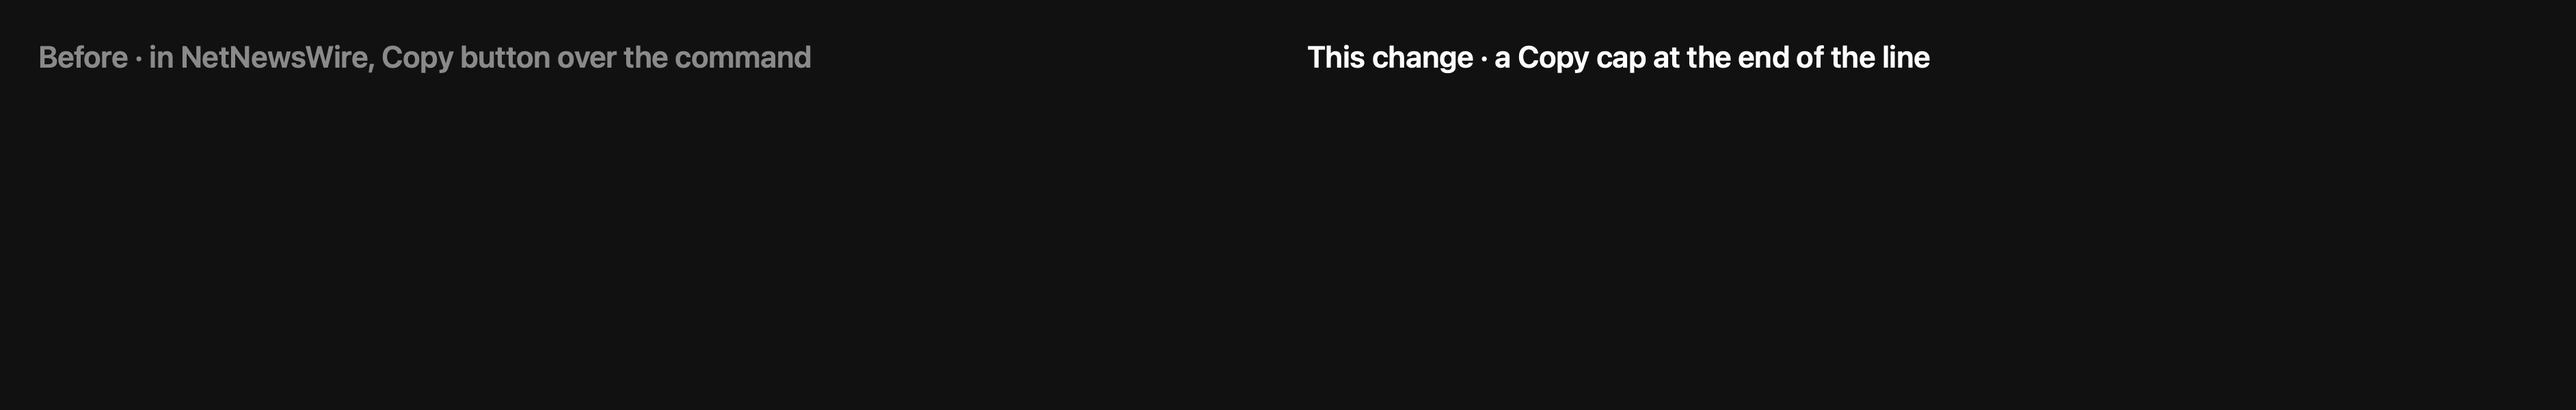
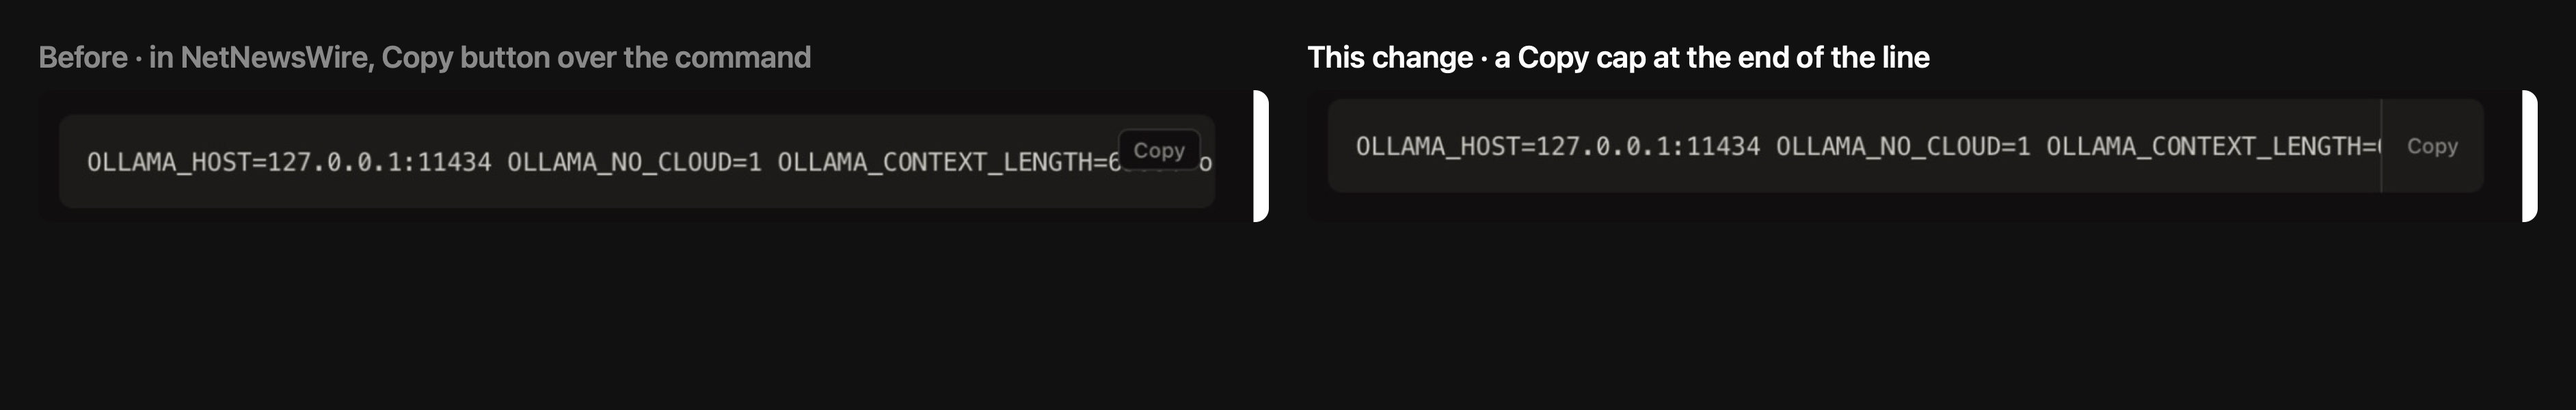
Repair blank in-app before/after images; add iPhone-size set
The in-app images were composed from file:// pictures the compose page
could not load, so each held only its labels. Recomposed from the same
captures with the pictures embedded. Adds dark 390pt renders through
NetNewsWire's page for each fix, and a --scheme flag plus X, podcast and
cover cases to scripts/before-after.mjs.

Verified: opened every image; artifact page renders all 15 at 1200 and 390 wide

Changed region(s): [[0.0311, 0.24, 0.4968, 0.54], [0.5279, 0.24, 0.9936, 0.54]]

diff --git a/assets/releases/unreleased/iphone/README.md b/assets/releases/unreleased/iphone/README.md
@@ -1,0 +1,35 @@
+# Before and after
+
+Made by `node scripts/before-after.mjs` against `origin/main`. At release, rename the folder's files to `<version>-<slug>.jpg` and move them up into `assets/releases/`.
+
+### footnote-popover
+
+<img src="https://raw.githubusercontent.com/raisulchowdhury/calm-nnwtheme/main/assets/releases/unreleased/iphone/footnote-popover.jpg" width="720" alt="A Six Colors footnote: before, a plain superscript; after, tapping it opens the note in place">
+
+### untitled-post
+
+<img src="https://raw.githubusercontent.com/raisulchowdhury/calm-nnwtheme/main/assets/releases/unreleased/iphone/untitled-post.jpg" width="720" alt="A Mastodon post with no title: before, an empty title line above the date; after, the date sits at the top">
+
+### gallery-row
+
+<img src="https://raw.githubusercontent.com/raisulchowdhury/calm-nnwtheme/main/assets/releases/unreleased/iphone/gallery-row.jpg" width="720" alt="A Ghost photo gallery: before, photos stacked full width; after, one row at a single height">
+
+### link-card
+
+<img src="https://raw.githubusercontent.com/raisulchowdhury/calm-nnwtheme/main/assets/releases/unreleased/iphone/link-card.jpg" width="720" alt="A Substack link card: before, raw text, buttons and comment counts; after, one quiet card with source, title and a few lines">
+
+### podcast-caption
+
+<img src="https://raw.githubusercontent.com/raisulchowdhury/calm-nnwtheme/main/assets/releases/unreleased/iphone/podcast-caption.jpg" width="720" alt="A podcast player caption: before, a file name and h:mm:ss; after, just the length, 1 hr 24 min">
+
+### duplicate-cover
+
+<img src="https://raw.githubusercontent.com/raisulchowdhury/calm-nnwtheme/main/assets/releases/unreleased/iphone/duplicate-cover.jpg" width="720" alt="A Latent Space episode: before, the cover picture twice in a row; after, once">
+
+### x-embed-dark
+
+<img src="https://raw.githubusercontent.com/raisulchowdhury/calm-nnwtheme/main/assets/releases/unreleased/iphone/x-embed-dark.jpg" width="720" alt="An embedded X post in dark mode: before, a white card; after, a dark card">
+
+### podcast-caption-file-name
+
+<img src="https://raw.githubusercontent.com/raisulchowdhury/calm-nnwtheme/main/assets/releases/unreleased/iphone/podcast-caption-file-name.jpg" width="720" alt="A Dwarkesh episode: before, the player caption is a hashed .mp3 file name; after, just the length">
